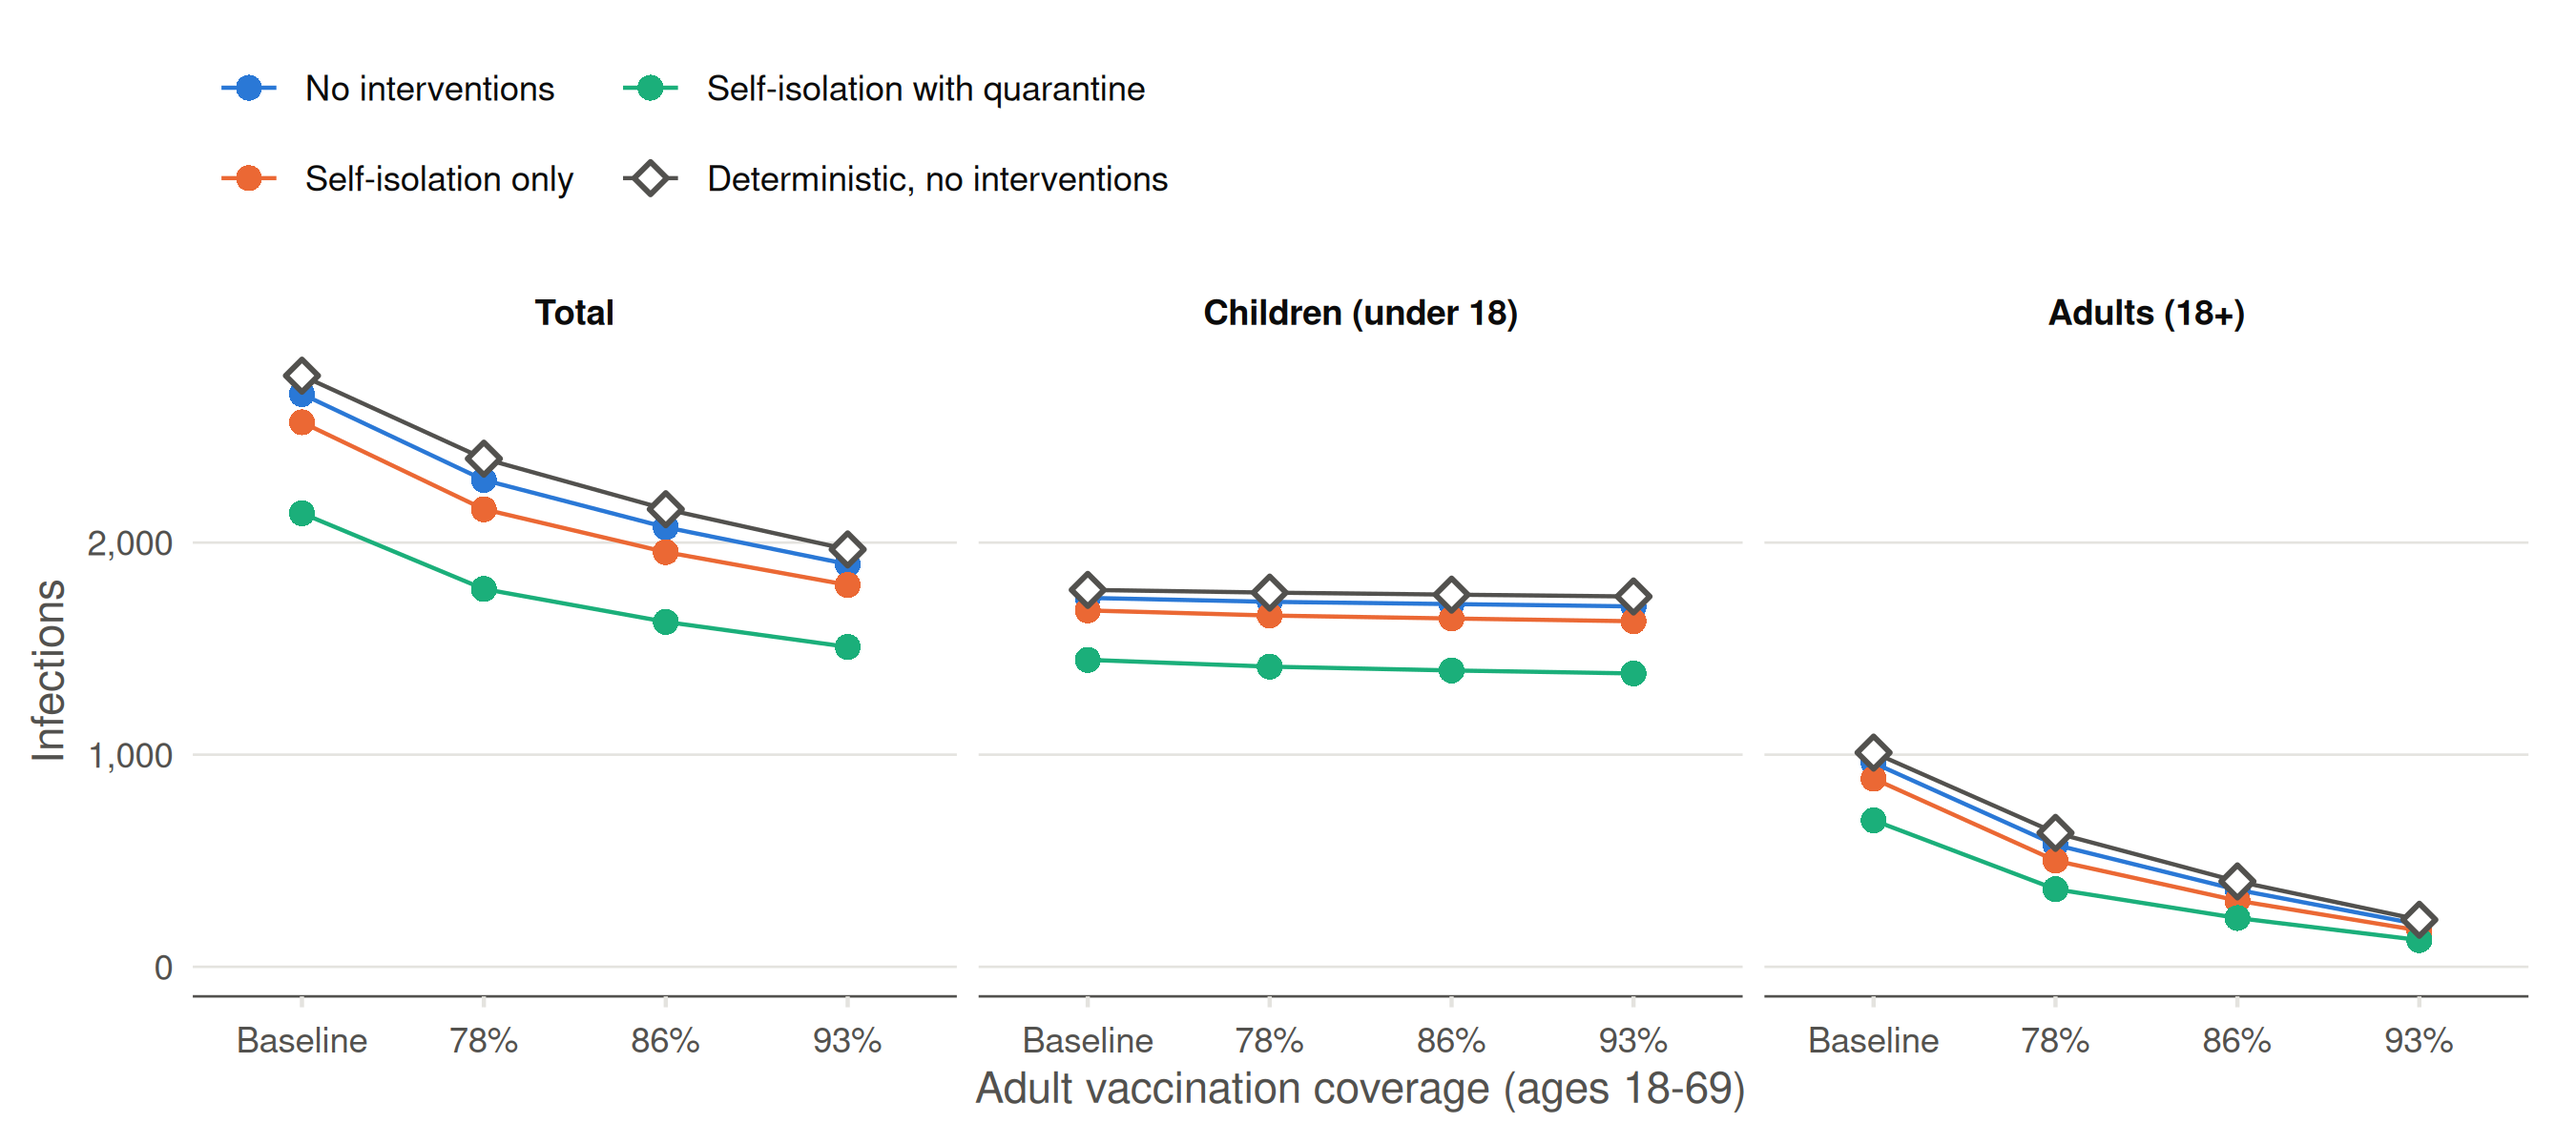
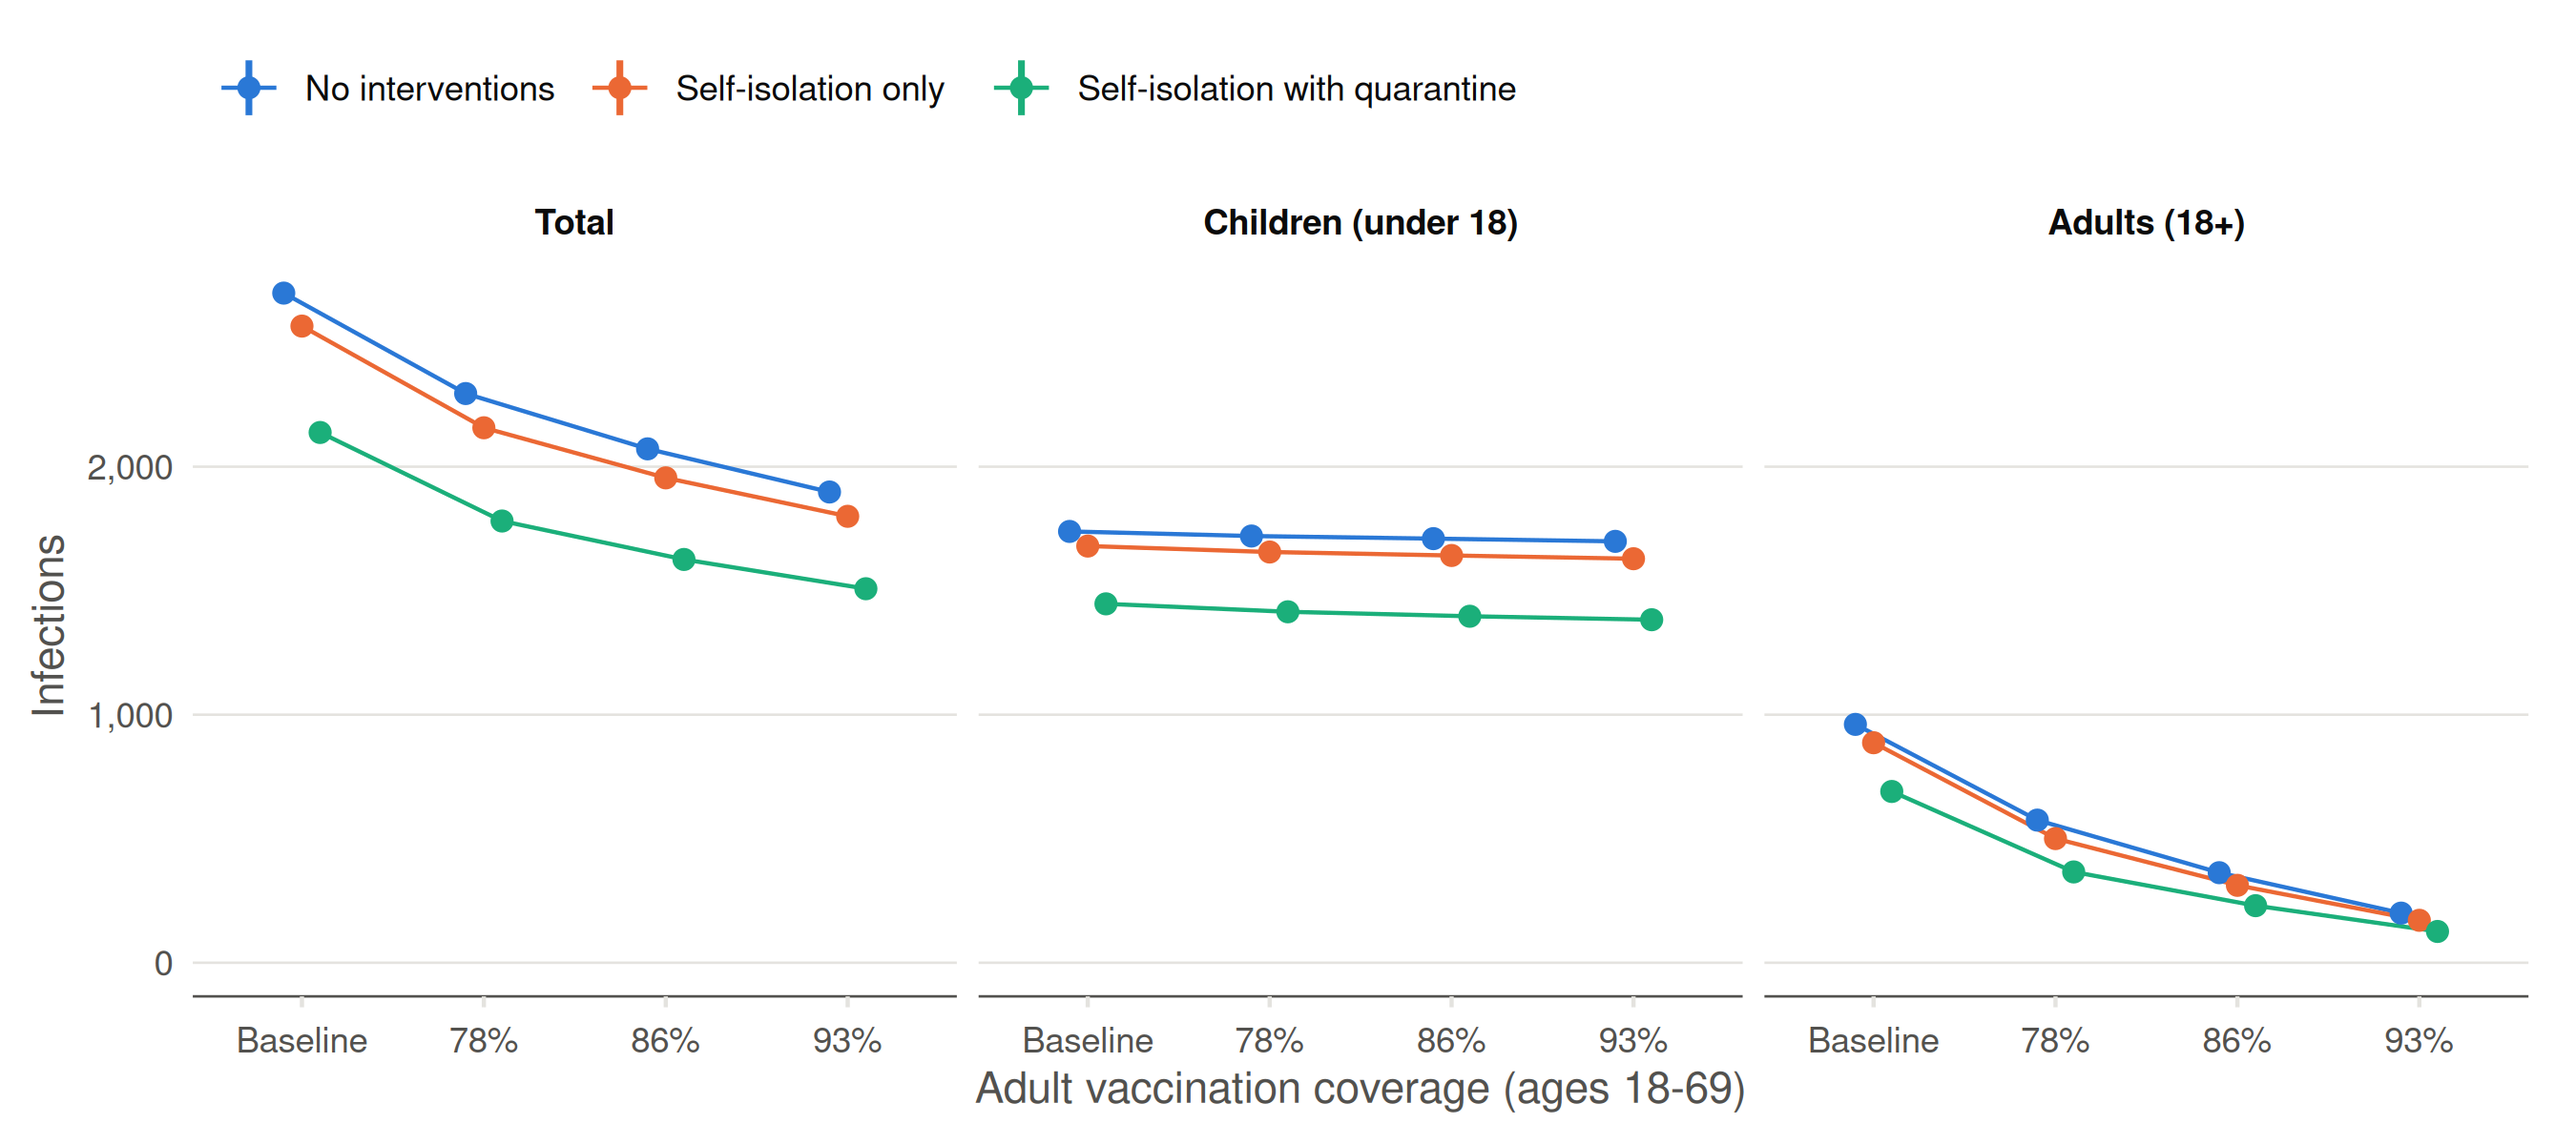
Drop the deterministic final sizes from the population-immunity summary
The manuscript does not report them; the comparison stays in the PR
description. The figure now shows the IQR of each arm, as the others do.

diff --git a/population_immunity/README.md b/population_immunity/README.md
@@ -9,9 +9,7 @@ vignette](https://epiforesite.github.io/multigroup-vaccine/articles/experiments/
 with 78%, 86%, and 93% coverage. Each scenario has 1,000 runs; runs with
 fewer than 10 cases are excluded as early extinctions. As in Figure 4,
 self-isolation with quarantine uses the run with quarantine and the
-other two scenarios the run without. For reference, the table and figure
-include the deterministic final sizes of the vignette’s compartmental
-model (no interventions). Children are those under 18.
+other two scenarios the run without. Children are those under 18.
 
 <div id="tbl-population-immunity">
 
@@ -25,19 +23,15 @@ across the retained runs; the ratio is of the medians.
 | Baseline | No interventions | 777 | 2,700 (2,686-2,715) | 1,739 (1,731-1,747) | 961 (951-972) | 1.8 |
 | Baseline | Self-isolation only | 703 | 2,567 (2,547-2,585) | 1,680 (1,670-1,691) | 887 (872-899) | 1.9 |
 | Baseline | Self-isolation with quarantine | 594 | 2,138 (2,106-2,167) | 1,447 (1,426-1,466) | 690 (673-707) | 2.1 |
-| Baseline | Deterministic, no interventions |  | 2,787 | 1,777 | 1,010 | 1.8 |
 | 78% | No interventions | 726 | 2,295 (2,280-2,311) | 1,720 (1,713-1,730) | 575 (564-586) | 3.0 |
 | 78% | Self-isolation only | 646 | 2,157 (2,138-2,177) | 1,656 (1,644-1,668) | 500 (487-513) | 3.3 |
 | 78% | Self-isolation with quarantine | 532 | 1,781 (1,750-1,806) | 1,415 (1,395-1,434) | 366 (353-379) | 3.9 |
-| 78% | Deterministic, no interventions |  | 2,395 | 1,764 | 631 | 2.8 |
 | 86% | No interventions | 691 | 2,072 (2,059-2,087) | 1,710 (1,700-1,720) | 363 (352-373) | 4.7 |
 | 86% | Self-isolation only | 617 | 1,955 (1,937-1,972) | 1,642 (1,630-1,654) | 312 (302-323) | 5.3 |
 | 86% | Self-isolation with quarantine | 499 | 1,626 (1,597-1,652) | 1,397 (1,374-1,414) | 230 (219-242) | 6.1 |
-| 86% | Deterministic, no interventions |  | 2,157 | 1,754 | 403 | 4.4 |
 | 93% | No interventions | 669 | 1,898 (1,885-1,913) | 1,699 (1,689-1,709) | 200 (192-208) | 8.5 |
 | 93% | Self-isolation only | 603 | 1,800 (1,783-1,816) | 1,629 (1,616-1,642) | 171 (163-178) | 9.5 |
 | 93% | Self-isolation with quarantine | 481 | 1,508 (1,483-1,534) | 1,383 (1,363-1,401) | 126 (119-135) | 11.0 |
-| 93% | Deterministic, no interventions |  | 1,968 | 1,746 | 222 | 7.9 |
 
 </div>
 
@@ -48,7 +42,6 @@ across the retained runs; the ratio is of the medians.
 ![](README_files/figure-commonmark/fig-population-immunity-1.png)
 
 Figure 1: Final outbreak size at day 365 by adult vaccination
-assumption: medians across the retained runs (interquartile ranges in
-the table) and deterministic final sizes.
+assumption: medians and interquartile ranges across the retained runs.
 
 </div>

diff --git a/README.md b/README.md
@@ -92,7 +92,7 @@ The analyses use `measles` 0.4.1 at commit `d1e87fe` and `epiworldR` 0.19.0 at c
 Each report runs two scenarios: with quarantine (21 days) and without quarantine (`Quarantine period` set to −1).
 The `population_immunity/` outputs also hold the infections by age group in each run (`infections_by_age`, `infections_by_age_no_quarantine`).
 
-Each set has a summary (Summary column) with one table and one figure, rendered from the `README.qmd` in its directory by its `make` target after the runs; the figures are in `README_files/figure-commonmark/` as PNG and PDF. The population-immunity summary includes the deterministic final sizes of the [`multigroup.vaccine` vignette](https://epiforesite.github.io/multigroup-vaccine/articles/experiments/utaz_age_school.html) for reference.
+Each set has a summary (Summary column) with one table and one figure, rendered from the `README.qmd` in its directory by its `make` target after the runs; the figures are in `README_files/figure-commonmark/` as PNG and PDF.
 
 ### Transmission model (`ModelMeaslesMixing()`, [`template.qmd`](./template.qmd))
 
